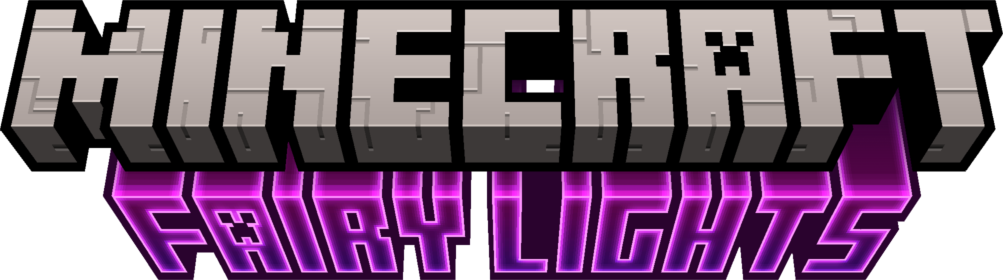
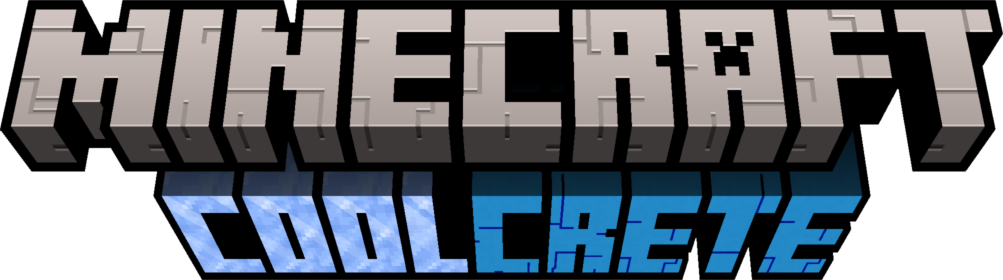
Minor fixes i.e. CoolCrete -> Coolcrete, recipes make 2 blocks, etc.

diff --git a/src/main/java/uk/co/oathompsonjones/CoolcreteBlocks.java b/src/main/java/uk/co/oathompsonjones/CoolcreteBlocks.java
@@ -4,6 +4,8 @@ import net.fabricmc.fabric.api.itemgroup.v1.FabricItemGroup;
 import net.fabricmc.fabric.api.itemgroup.v1.ItemGroupEvents;
 import net.minecraft.block.AbstractBlock;
 import net.minecraft.block.Block;
+import net.minecraft.block.Blocks;
+import net.minecraft.block.enums.Instrument;
 import net.minecraft.item.BlockItem;
 import net.minecraft.item.Item;
 import net.minecraft.item.ItemGroup;
@@ -11,7 +13,9 @@ import net.minecraft.item.ItemStack;
 import net.minecraft.registry.Registries;
 import net.minecraft.registry.Registry;
 import net.minecraft.registry.RegistryKey;
+import net.minecraft.sound.BlockSoundGroup;
 import net.minecraft.text.Text;
+import net.minecraft.util.DyeColor;
 import net.minecraft.util.Identifier;
 
 import java.util.Arrays;
@@ -19,17 +23,19 @@ import java.util.Map;
 import java.util.function.Supplier;
 import java.util.stream.Collectors;
 
-public class CoolCreteBlocks {
+public class CoolcreteBlocks {
     public static final RegistryKey<ItemGroup> ITEM_GROUP = RegistryKey.of(Registries.ITEM_GROUP.getKey(),
-            Identifier.of(CoolCrete.MOD_ID, "item_group")
+            Identifier.of(Coolcrete.MOD_ID, "item_group")
     );
 
-    public static final Map<String, Block> COOLCRETE_BLOCKS = Arrays.stream(CoolCrete.COLORS).collect(Collectors.toMap(
-            color -> color,
-            color -> register(
-                    new Block(AbstractBlock.Settings.copy(CoolCrete.getConcrete(color)).slipperiness(0.98F)),
-                    color + "_coolcrete"
-            )
+    public static final Map<String, Block> COOLCRETE_BLOCKS = Arrays.stream(Coolcrete.COLORS).collect(Collectors.toMap(color -> color,
+            color -> register(new Block(AbstractBlock.Settings
+                    .copy(Blocks.PACKED_ICE)
+                    .mapColor(DyeColor.byName(color, DyeColor.WHITE))
+                    .instrument(Instrument.BASEDRUM)
+                    .requiresTool()
+                    .strength(1.8F)
+                    .sounds(BlockSoundGroup.STONE)), color + "_coolcrete")
     ));
 
     public static Block register(Block block, String name) {
@@ -37,7 +43,7 @@ public class CoolCreteBlocks {
     }
 
     public static Block register(Block block, String name, Supplier<Item> itemSupplier) {
-        Identifier id = new Identifier(CoolCrete.MOD_ID, name);
+        Identifier id = new Identifier(Coolcrete.MOD_ID, name);
 
         if (itemSupplier != null) {
             Registry.register(Registries.ITEM, id, itemSupplier.get());
@@ -52,12 +58,12 @@ public class CoolCreteBlocks {
                 FabricItemGroup
                         .builder()
                         .icon(() -> new ItemStack(COOLCRETE_BLOCKS.get("magenta")))
-                        .displayName(Text.of(CoolCrete.MOD_NAME))
+                        .displayName(Text.of(Coolcrete.MOD_NAME))
                         .build()
         );
 
         // Register all the blocks in the item group
-        for (String color : CoolCrete.COLORS)
+        for (String color : Coolcrete.COLORS)
             ItemGroupEvents.modifyEntriesEvent(ITEM_GROUP).register((group) -> group.add(COOLCRETE_BLOCKS
                     .get(color)
                     .asItem()));

diff --git a/src/main/java/uk/co/oathompsonjones/datagen/CoolcreteRecipeProvider.java b/src/main/java/uk/co/oathompsonjones/datagen/CoolcreteRecipeProvider.java
@@ -9,37 +9,40 @@ import net.minecraft.item.Item;
 import net.minecraft.item.Items;
 import net.minecraft.recipe.book.RecipeCategory;
 import net.minecraft.util.Identifier;
-import uk.co.oathompsonjones.CoolCrete;
-import uk.co.oathompsonjones.CoolCreteBlocks;
+import uk.co.oathompsonjones.Coolcrete;
+import uk.co.oathompsonjones.CoolcreteBlocks;
 
 import java.util.Objects;
 import java.util.function.Consumer;
 
-public class CoolCreteRecipeProvider extends FabricRecipeProvider {
-    public CoolCreteRecipeProvider(FabricDataOutput generator) {
+public class CoolcreteRecipeProvider extends FabricRecipeProvider {
+    public CoolcreteRecipeProvider(FabricDataOutput generator) {
         super(generator);
     }
 
     @Override
     public void generate(Consumer<RecipeJsonProvider> exporter) {
         // CoolCrete — packed ice + the correct coloured concrete
-
-        for (String color : CoolCrete.COLORS) {
-            // CoolCrete blocks
-            Item concrete = CoolCrete.getConcrete(color).asItem();
-            Block block   = CoolCreteBlocks.COOLCRETE_BLOCKS.get(color);
+        for (String color : Coolcrete.COLORS) {
+            Item concrete = Coolcrete.getConcrete(color).asItem();
+            Block block   = CoolcreteBlocks.COOLCRETE_BLOCKS.get(color);
             ShapelessRecipeJsonBuilder
-                    .create(RecipeCategory.DECORATIONS, block)
+                    .create(RecipeCategory.DECORATIONS, block, 2)
                     .input(Items.PACKED_ICE)
                     .input(concrete)
-                    .group(Objects.requireNonNull(Identifier.of(CoolCrete.MOD_ID, color + "_coolcrete")).toString())
+                    .group(Objects
+                            .requireNonNull(Identifier.of(Coolcrete.MOD_ID, color + "_coolcrete"))
+                            .toString())
                     .criterion(FabricRecipeProvider.hasItem(Items.PACKED_ICE),
                             FabricRecipeProvider.conditionsFromItem(Items.PACKED_ICE)
                     )
                     .criterion(FabricRecipeProvider.hasItem(concrete),
                             FabricRecipeProvider.conditionsFromItem(concrete)
                     )
-                    .offerTo(exporter, Identifier.of(CoolCrete.MOD_ID, color + "_coolcrete"));
+                    .offerTo(
+                            exporter,
+                            Identifier.of(Coolcrete.MOD_ID, color + "_coolcrete")
+                    );
         }
     }
 }

diff --git a/src/main/java/uk/co/oathompsonjones/datagen/CoolcreteModelProvider.java b/src/main/java/uk/co/oathompsonjones/datagen/CoolcreteModelProvider.java
@@ -4,21 +4,21 @@ import net.fabricmc.fabric.api.datagen.v1.FabricDataOutput;
 import net.fabricmc.fabric.api.datagen.v1.provider.FabricModelProvider;
 import net.minecraft.data.client.*;
 import net.minecraft.util.Identifier;
-import uk.co.oathompsonjones.CoolCrete;
-import uk.co.oathompsonjones.CoolCreteBlocks;
+import uk.co.oathompsonjones.Coolcrete;
+import uk.co.oathompsonjones.CoolcreteBlocks;
 
-public class CoolCreteModelProvider extends FabricModelProvider {
-    public CoolCreteModelProvider(FabricDataOutput output) {
+public class CoolcreteModelProvider extends FabricModelProvider {
+    public CoolcreteModelProvider(FabricDataOutput output) {
         super(output);
     }
 
     @Override
     public void generateBlockStateModels(BlockStateModelGenerator blockStateModelGenerator) {
-        for (String color : CoolCrete.COLORS) {
+        for (String color : Coolcrete.COLORS) {
             blockStateModelGenerator.registerSingleton(
-                    CoolCreteBlocks.COOLCRETE_BLOCKS.get(color),
+                    CoolcreteBlocks.COOLCRETE_BLOCKS.get(color),
                     new TextureMap().put(TextureKey.ALL, new Identifier("minecraft", "block/" + color + "_concrete")),
-                    TexturedModel.CUBE_ALL.get(CoolCrete.getConcrete(color)).getModel()
+                    TexturedModel.CUBE_ALL.get(Coolcrete.getConcrete(color)).getModel()
             );
         }
     }

diff --git a/src/main/java/uk/co/oathompsonjones/datagen/CoolcreteBlockTagProvider.java b/src/main/java/uk/co/oathompsonjones/datagen/CoolcreteBlockTagProvider.java
@@ -6,13 +6,13 @@ import net.minecraft.block.Block;
 import net.minecraft.registry.RegistryKeys;
 import net.minecraft.registry.RegistryWrapper;
 import net.minecraft.registry.tag.BlockTags;
-import uk.co.oathompsonjones.CoolCrete;
-import uk.co.oathompsonjones.CoolCreteBlocks;
+import uk.co.oathompsonjones.Coolcrete;
+import uk.co.oathompsonjones.CoolcreteBlocks;
 
 import java.util.concurrent.CompletableFuture;
 
-public class CoolCreteBlockTagProvider extends FabricTagProvider<Block> {
-    public CoolCreteBlockTagProvider(
+public class CoolcreteBlockTagProvider extends FabricTagProvider<Block> {
+    public CoolcreteBlockTagProvider(
             FabricDataOutput output, CompletableFuture<RegistryWrapper.WrapperLookup> registriesFuture
     ) {
         super(output, RegistryKeys.BLOCK, registriesFuture);
@@ -20,8 +20,8 @@ public class CoolCreteBlockTagProvider extends FabricTagProvider<Block> {
 
     @Override
     protected void configure(RegistryWrapper.WrapperLookup lookup) {
-        for (String color : CoolCrete.COLORS)
-            getOrCreateTagBuilder(BlockTags.PICKAXE_MINEABLE).add(CoolCreteBlocks.COOLCRETE_BLOCKS.get(color));
+        for (String color : Coolcrete.COLORS)
+            getOrCreateTagBuilder(BlockTags.PICKAXE_MINEABLE).add(CoolcreteBlocks.COOLCRETE_BLOCKS.get(color));
     }
 }
 

diff --git a/src/main/java/uk/co/oathompsonjones/datagen/CoolcreteEnUsLanguageProvider.java b/src/main/java/uk/co/oathompsonjones/datagen/CoolcreteEnUsLanguageProvider.java
@@ -2,10 +2,10 @@ package uk.co.oathompsonjones.datagen;
 
 import net.fabricmc.fabric.api.datagen.v1.FabricDataOutput;
 import net.fabricmc.fabric.api.datagen.v1.provider.FabricLanguageProvider;
-import uk.co.oathompsonjones.CoolCrete;
+import uk.co.oathompsonjones.Coolcrete;
 
-public class CoolCreteEnUsLanguageProvider extends FabricLanguageProvider {
-    public CoolCreteEnUsLanguageProvider(FabricDataOutput dataGenerator) {
+public class CoolcreteEnUsLanguageProvider extends FabricLanguageProvider {
+    public CoolcreteEnUsLanguageProvider(FabricDataOutput dataGenerator) {
         super(dataGenerator);
     }
 
@@ -29,9 +29,9 @@ public class CoolCreteEnUsLanguageProvider extends FabricLanguageProvider {
 
     @Override
     public void generateTranslations(TranslationBuilder translationBuilder) {
-        for (String color : CoolCrete.COLORS) {
+        for (String color : Coolcrete.COLORS) {
             String newColor = format(color);
-            translationBuilder.add("block." + CoolCrete.MOD_ID + "." + color + "_coolcrete", newColor + " CoolCrete");
+            translationBuilder.add("block." + Coolcrete.MOD_ID + "." + color + "_coolcrete", newColor + " Coolcrete");
         }
     }
 }

diff --git a/src/main/java/uk/co/oathompsonjones/Coolcrete.java b/src/main/java/uk/co/oathompsonjones/Coolcrete.java
@@ -8,11 +8,11 @@ import org.slf4j.LoggerFactory;
 
 import java.util.HashMap;
 
-public class CoolCrete implements ModInitializer {
+public class Coolcrete implements ModInitializer {
     // This logger is used to write text to the console and the log file.
     // It is considered best practice to use your mod id as the logger's name.
     // That way, it's clear which mod wrote info, warnings, and errors.
-    public static final String MOD_NAME = "CoolCrete";
+    public static final String MOD_NAME = "Coolcrete";
     public static final String MOD_ID   = MOD_NAME.toLowerCase();
     public static final Logger LOGGER   = LoggerFactory.getLogger(MOD_ID);
 
@@ -65,6 +65,6 @@ public class CoolCrete implements ModInitializer {
         LOGGER.info("{} is initializing!", MOD_ID);
 
         // Register all items, item groups and blocks
-        CoolCreteBlocks.initialize();
+        CoolcreteBlocks.initialize();
     }
 }

diff --git a/src/main/java/uk/co/oathompsonjones/datagen/CoolcreteEnGbLanguageProvider.java b/src/main/java/uk/co/oathompsonjones/datagen/CoolcreteEnGbLanguageProvider.java
@@ -1,0 +1,24 @@
+package uk.co.oathompsonjones.datagen;
+
+import net.fabricmc.fabric.api.datagen.v1.FabricDataOutput;
+import net.fabricmc.fabric.api.datagen.v1.provider.FabricLanguageProvider;
+import uk.co.oathompsonjones.Coolcrete;
+
+public class CoolcreteEnGbLanguageProvider extends FabricLanguageProvider {
+    public CoolcreteEnGbLanguageProvider(FabricDataOutput dataGenerator) {
+        super(dataGenerator, "en_gb");
+    }
+
+    public static String correctSpelling(String str) {
+        return str.replace("gray", "grey");
+    }
+
+    @Override
+    public void generateTranslations(TranslationBuilder translationBuilder) {
+        for (String color : Coolcrete.COLORS) {
+            String newColor = CoolcreteEnUsLanguageProvider.format(correctSpelling(color));
+            translationBuilder.add("block." + Coolcrete.MOD_ID + "." + color + "_coolcrete", newColor + " Coolcrete");
+        }
+    }
+}
+

diff --git a/src/main/java/uk/co/oathompsonjones/CoolcreteDataGenerator.java b/src/main/java/uk/co/oathompsonjones/CoolcreteDataGenerator.java
@@ -1,0 +1,18 @@
+package uk.co.oathompsonjones;
+
+import net.fabricmc.fabric.api.datagen.v1.DataGeneratorEntrypoint;
+import net.fabricmc.fabric.api.datagen.v1.FabricDataGenerator;
+import uk.co.oathompsonjones.datagen.*;
+
+public class CoolcreteDataGenerator implements DataGeneratorEntrypoint {
+    @Override
+    public void onInitializeDataGenerator(FabricDataGenerator fabricDataGenerator) {
+        FabricDataGenerator.Pack pack = fabricDataGenerator.createPack();
+        pack.addProvider(CoolcreteBlockLootTableProvider::new);
+        pack.addProvider(CoolcreteBlockTagProvider::new);
+        pack.addProvider(CoolcreteEnGbLanguageProvider::new);
+        pack.addProvider(CoolcreteEnUsLanguageProvider::new);
+        pack.addProvider(CoolcreteModelProvider::new);
+        pack.addProvider(CoolcreteRecipeProvider::new);
+    }
+}

diff --git a/src/main/java/uk/co/oathompsonjones/datagen/CoolcreteBlockLootTableProvider.java b/src/main/java/uk/co/oathompsonjones/datagen/CoolcreteBlockLootTableProvider.java
@@ -1,0 +1,19 @@
+package uk.co.oathompsonjones.datagen;
+
+import net.fabricmc.fabric.api.datagen.v1.FabricDataOutput;
+import net.fabricmc.fabric.api.datagen.v1.provider.FabricBlockLootTableProvider;
+import uk.co.oathompsonjones.Coolcrete;
+import uk.co.oathompsonjones.CoolcreteBlocks;
+
+public class CoolcreteBlockLootTableProvider extends FabricBlockLootTableProvider {
+    public CoolcreteBlockLootTableProvider(FabricDataOutput output) {
+        super(output);
+    }
+
+    @Override
+    public void generate() {
+        for (String color : Coolcrete.COLORS) {
+            addDrop(CoolcreteBlocks.COOLCRETE_BLOCKS.get(color));
+        }
+    }
+}

diff --git a/src/client/java/uk/co/oathompsonjones/CoolcreteClient.java b/src/client/java/uk/co/oathompsonjones/CoolcreteClient.java
@@ -2,7 +2,7 @@ package uk.co.oathompsonjones;
 
 import net.fabricmc.api.ClientModInitializer;
 
-public class CoolCreteClient implements ClientModInitializer {
+public class CoolcreteClient implements ClientModInitializer {
     @Override
     public void onInitializeClient() {
         // This entrypoint is suitable for setting up client-specific logic, such as rendering.

diff --git a/README.md b/README.md
@@ -1,8 +1,8 @@
-![CoolCrete Title Image](./src/main/resources/assets/coolcrete/title.png)
+![Coolcrete Title Image](./src/main/resources/assets/coolcrete/title.png)
 
-# Welcome to CoolCrete!
+# Welcome to Coolcrete!
 
-CoolCrete is a Minecraft mod that adds slippery concrete blocks to the game.
+Coolcrete is a Minecraft mod that adds slippery concrete blocks to the game.
 
 To run the mod locally, set up a fabric modding environment, then run the following:
 
